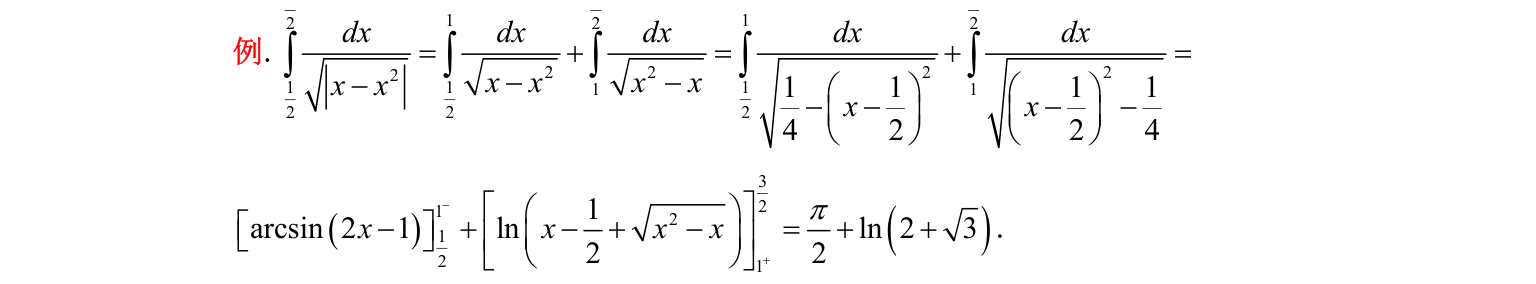
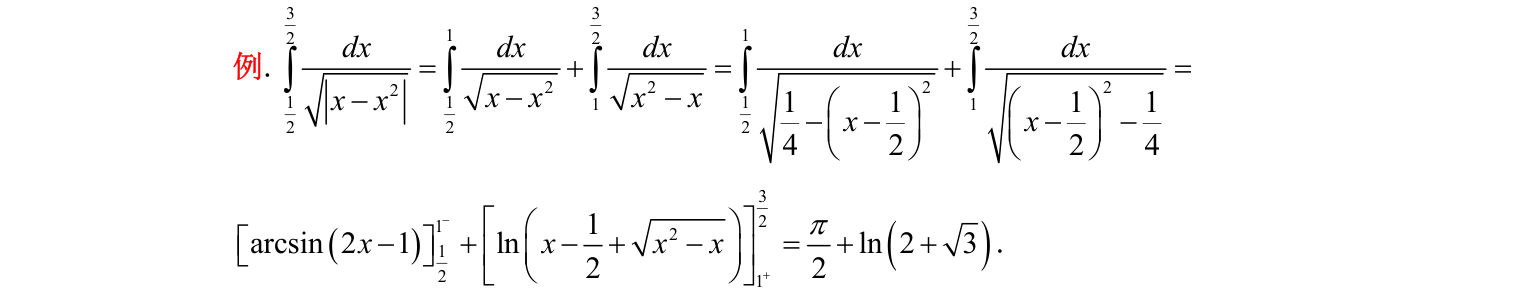
fix(laoyao): 重截5.4-15(修复上限3/2截断)与5.4-19(补全注)，合并最后两题为单题5.4-25(pb_5-109)

diff --git a/js/chapters.js b/js/chapters.js
@@ -377,10 +377,10 @@
     }
   ]
 },
-{id:"ch214",number:214,name:"老姚高数 - 第5章 定积分",short:"5 定积分",total:110,cols:4,wb:"老姚高数",subj:"高数",relPath:"老姚高数/第5章 定积分",
-  labels:["5.1-1","5.1-2","5.1-3","5.1-4","5.1-5","5.1-6","5.1-7","5.1-8","5.1-9","5.1-10","5.1-11","5.1-12","5.1-13","5.1-14","5.1-15","5.1-16","5.1-17","5.1-18","5.1-19","5.1-20","5.1-21","5.1-22","5.1-23","5.1-24","5.1-25","5.2-1","5.2-2","5.2-3","5.2-4","5.2-5","5.2-6","5.2-7","5.2-8","5.2-9","5.2-10","5.2-11","5.2-12","5.3-1","5.3-2","5.3-3","5.3-4","5.3-5","5.3-6","5.3-7","5.3-8","5.3-9","5.3-10","5.3-11","5.3-12","5.3-13","5.3-14","5.3-15","5.3-16","5.3-17","5.3-18","5.3-19","5.3-20","5.3-21","5.3-22","5.3-23","5.3-24","5.3-25","5.3-26","5.3-27","5.3-28","5.3-29","5.3-30","5.3-31","5.3-32","5.3-33","5.3-34","5.3-35","5.3-36","5.3-37","5.3-38","5.3-39","5.3-40","5.3-41","5.3-42","5.3-43","5.3-44","5.3-45","5.3-46","5.3-47","5.4-1","5.4-2","5.4-3","5.4-4","5.4-5","5.4-6","5.4-7","5.4-8","5.4-9","5.4-10","5.4-11","5.4-12","5.4-13","5.4-14","5.4-15","5.4-16","5.4-17","5.4-18","5.4-19","5.4-20","5.4-21","5.4-22","5.4-23","5.4-24","5.4-25 (1)","5.4-26 (2)"],
-  imgLabels:["5-1","5-2","5-3","5-4","5-5","5-6","5-7","5-8","5-9","5-10","5-11","5-12","5-13","5-14","5-15","5-16","5-17","5-18","5-19","5-20","5-21","5-22","5-23","5-24","5-25","5-26","5-27","5-28","5-29","5-30","5-31","5-32","5-33","5-34","5-35","5-36","5-37","5-38","5-39","5-40","5-41","5-42","5-43","5-44","5-45","5-46","5-47","5-48","5-49","5-50","5-51","5-52","5-53","5-54","5-55","5-56","5-57","5-58","5-59","5-60","5-61","5-62","5-63","5-64","5-65","5-66","5-67","5-68","5-69","5-70","5-71","5-72","5-73","5-74","5-75","5-76","5-77","5-78","5-79","5-80","5-81","5-82","5-83","5-84","5-85","5-86","5-87","5-88","5-89","5-90","5-91","5-92","5-93","5-94","5-95","5-96","5-97","5-98","5-99","5-100","5-101","5-102","5-103","5-104","5-105","5-106","5-107","5-108","5-109 (1)","5-109 (2)"],
-  sections:[{"type":"5.1 定积分的概念与性质","start":0,"count":25,"exampleCount":16},{"type":"5.2 微积分基本公式","start":25,"count":12,"exampleCount":5},{"type":"5.3 定积分的换元法和分部积分法","start":37,"count":47,"exampleCount":38},{"type":"5.4 反常积分","start":84,"count":26,"exampleCount":19}]
+{id:"ch214",number:214,name:"老姚高数 - 第5章 定积分",short:"5 定积分",total:109,cols:4,wb:"老姚高数",subj:"高数",relPath:"老姚高数/第5章 定积分",
+  labels:["5.1-1","5.1-2","5.1-3","5.1-4","5.1-5","5.1-6","5.1-7","5.1-8","5.1-9","5.1-10","5.1-11","5.1-12","5.1-13","5.1-14","5.1-15","5.1-16","5.1-17","5.1-18","5.1-19","5.1-20","5.1-21","5.1-22","5.1-23","5.1-24","5.1-25","5.2-1","5.2-2","5.2-3","5.2-4","5.2-5","5.2-6","5.2-7","5.2-8","5.2-9","5.2-10","5.2-11","5.2-12","5.3-1","5.3-2","5.3-3","5.3-4","5.3-5","5.3-6","5.3-7","5.3-8","5.3-9","5.3-10","5.3-11","5.3-12","5.3-13","5.3-14","5.3-15","5.3-16","5.3-17","5.3-18","5.3-19","5.3-20","5.3-21","5.3-22","5.3-23","5.3-24","5.3-25","5.3-26","5.3-27","5.3-28","5.3-29","5.3-30","5.3-31","5.3-32","5.3-33","5.3-34","5.3-35","5.3-36","5.3-37","5.3-38","5.3-39","5.3-40","5.3-41","5.3-42","5.3-43","5.3-44","5.3-45","5.3-46","5.3-47","5.4-1","5.4-2","5.4-3","5.4-4","5.4-5","5.4-6","5.4-7","5.4-8","5.4-9","5.4-10","5.4-11","5.4-12","5.4-13","5.4-14","5.4-15","5.4-16","5.4-17","5.4-18","5.4-19","5.4-20","5.4-21","5.4-22","5.4-23","5.4-24","5.4-25"],
+  imgLabels:["5-1","5-2","5-3","5-4","5-5","5-6","5-7","5-8","5-9","5-10","5-11","5-12","5-13","5-14","5-15","5-16","5-17","5-18","5-19","5-20","5-21","5-22","5-23","5-24","5-25","5-26","5-27","5-28","5-29","5-30","5-31","5-32","5-33","5-34","5-35","5-36","5-37","5-38","5-39","5-40","5-41","5-42","5-43","5-44","5-45","5-46","5-47","5-48","5-49","5-50","5-51","5-52","5-53","5-54","5-55","5-56","5-57","5-58","5-59","5-60","5-61","5-62","5-63","5-64","5-65","5-66","5-67","5-68","5-69","5-70","5-71","5-72","5-73","5-74","5-75","5-76","5-77","5-78","5-79","5-80","5-81","5-82","5-83","5-84","5-85","5-86","5-87","5-88","5-89","5-90","5-91","5-92","5-93","5-94","5-95","5-96","5-97","5-98","5-99","5-100","5-101","5-102","5-103","5-104","5-105","5-106","5-107","5-108","5-109"],
+  sections:[{"type":"5.1 定积分的概念与性质","start":0,"count":25,"exampleCount":16},{"type":"5.2 微积分基本公式","start":25,"count":12,"exampleCount":5},{"type":"5.3 定积分的换元法和分部积分法","start":37,"count":47,"exampleCount":38},{"type":"5.4 反常积分","start":84,"count":25,"exampleCount":19}]
 },
 {id:"ch215",number:215,name:"老姚高数 - 第6章 定积分的应用",short:"6 定积分应用",total:55,cols:4,wb:"老姚高数",subj:"高数",relPath:"老姚高数/第6章 定积分的应用",
   labels:["6.1-1","6.1-2 (1)","6.1-3 (2)","6.1-4 (3)","6.2-1","6.2-2","6.2-3","6.2-4","6.2-5","6.2-6","6.2-7","6.2-8","6.2-9","6.2-10","6.2-11","6.2-12","6.2-13","6.2-14","6.2-15","6.2-16","6.2-17","6.2-18","6.2-19","6.2-20","6.2-21","6.2-22","6.2-23","6.2-24","6.2-25","6.2-26","6.2-27","6.2-28","6.2-29","6.2-30","6.2-31","6.2-32","6.2-33","6.2-34","6.2-35","6.2-36","6.3-1","6.3-2","6.3-3","6.3-4","6.3-5","6.3-6","6.3-7","6.3-8","6.3-9","6.3-10","6.3-11","6.3-12","6.3-13","6.3-14","6.3-15"],
